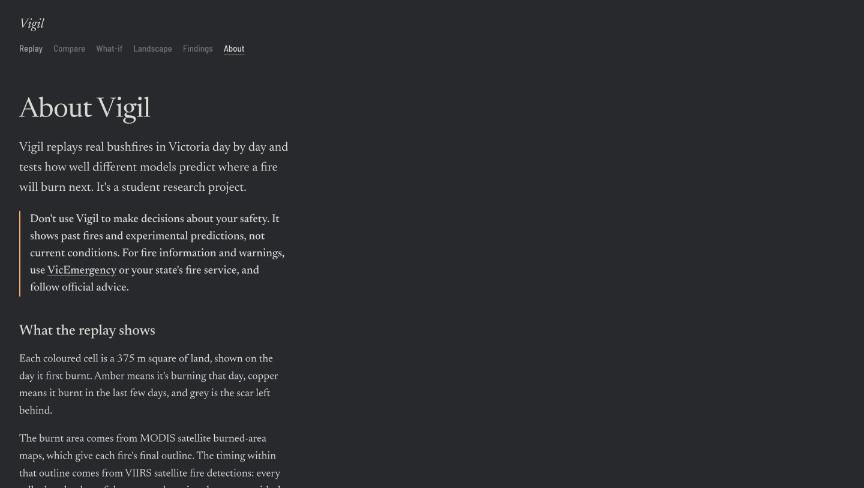
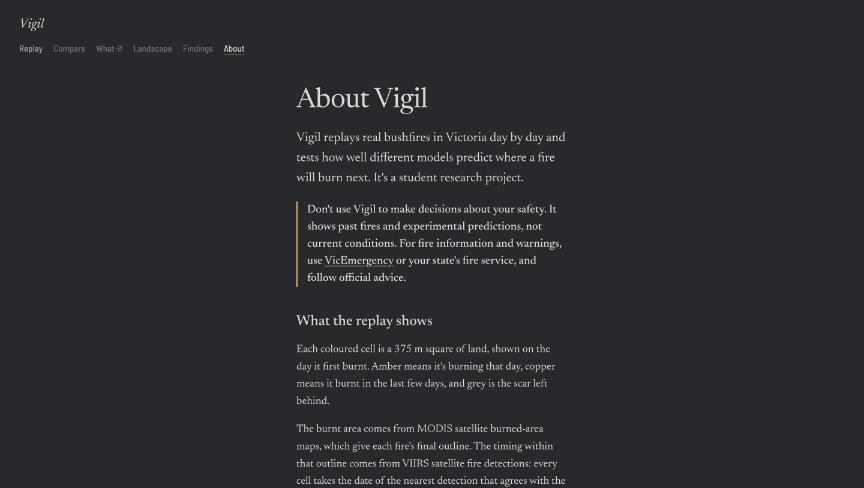
Website: visible future bars, layout-aware fire framing, centred About
Fit padding is measured from the title block and the date/timeline, so the
fire always sits in the clear area; ?fire= selects a fire by index or id.

diff --git a/app/app.js b/app/app.js
@@ -118,7 +118,7 @@ function renderBars() {
   for (let i = 0; i < n; i++) {
     const v = fire.daily_kha[i], bh = Math.max(v > 0 ? 1.5 : 0, (v / max) * (base - 4));
     const age = t - i;
-    if (age <= 0) bctx.fillStyle = "rgba(217, 218, 214, 0.16)";
+    if (age <= 0) bctx.fillStyle = "rgba(146, 148, 150, 0.42)";   // future: dim ash, readable before play
     else {
       const li = lutAt(age);
       bctx.fillStyle = `rgba(${LUT[li]},${LUT[li + 1]},${LUT[li + 2]},${Math.max(LUT[li + 3] / 255, 0.55)})`;
@@ -189,7 +189,7 @@ async function loadFire(i, { animateView = true } = {}) {
                  paint: { "raster-resampling": "linear", "raster-fade-duration": 0 } }, firstLabelLayer);
   const lons = fire.corners.map(c => c[0]), lats = fire.corners.map(c => c[1]);
   map.fitBounds([[Math.min(...lons), Math.min(...lats)], [Math.max(...lons), Math.max(...lats)]],
-                { padding: { top: 190, bottom: 200, left: 60, right: 60 },
+                { padding: clearArea(),
                   duration: animateView && !params.has("day") && !REDUCED_MOTION ? 900 : 0 });
   $("fire-label").textContent = fire.label;
   $("fire-range").textContent = `${shortDate(dateOf(0))} to ${shortDate(dateOf(fire.days - 1))}, ` +
@@ -198,6 +198,19 @@ async function loadFire(i, { animateView = true } = {}) {
   $("slider").max = fire.days;
   t = 0;
   render();
+}
+
+// The clear part of the map: below the title block and above the date and
+// timeline, measured from the layout so the fire never sits under the text.
+function clearArea() {
+  const vh = innerHeight, vw = innerWidth, gap = 24;
+  const top = document.querySelector(".top").getBoundingClientRect().bottom + gap;
+  const bottom = vh - document.querySelector(".readout").getBoundingClientRect().top + gap;
+  const side = Math.min(80, vw * 0.06);
+  // Keep at least a third of the height for the fire on short screens.
+  const spare = vh - top - bottom;
+  const shrink = spare < vh / 3 ? (vh / 3 - spare) / 2 : 0;
+  return { top: Math.max(top - shrink, 10), bottom: Math.max(bottom - shrink, 10), left: side, right: side };
 }
 
 // Fire picker: the fire's name is the control; it opens a plain list.
@@ -228,7 +241,8 @@ async function init() {
   const data = await (await fetch("data/fires.json")).json();
   fires = data.fires;
   buildList();
-  await loadFire(0, { animateView: false });
+  const pick = params.has("fire") ? Math.max(0, fires.findIndex((f, i) => String(f.id) === params.get("fire") || String(i) === params.get("fire"))) : 0;
+  await loadFire(pick, { animateView: false });
   if (params.has("day")) { t = params.get("day") === "end" ? fire.days : +params.get("day"); render(); }
   requestAnimationFrame(frame);
   if (params.get("play") === "1") setPlaying(true);

diff --git a/app/site.css b/app/site.css
@@ -49,7 +49,7 @@ a { color: inherit; }
 /* Text pages (About, placeholders): a quiet column on the land tone. */
 .page { min-height: 100vh; background: var(--land); }
 .page header { padding: 28px 32px 0; }
-.page main { max-width: 64ch; padding: 56px 32px 96px; }
+.page main { max-width: 64ch; margin: 0 auto; padding: 40px 32px 96px; }
 .page h1 { font: 400 46px/1.08 var(--serif); letter-spacing: -0.01em; margin: 0 0 18px; }
 .page h2 { font: 500 24px/1.2 var(--serif); margin: 44px 0 10px; }
 .page p, .page li { font: 400 18px/1.6 var(--serif); color: var(--ink); }
